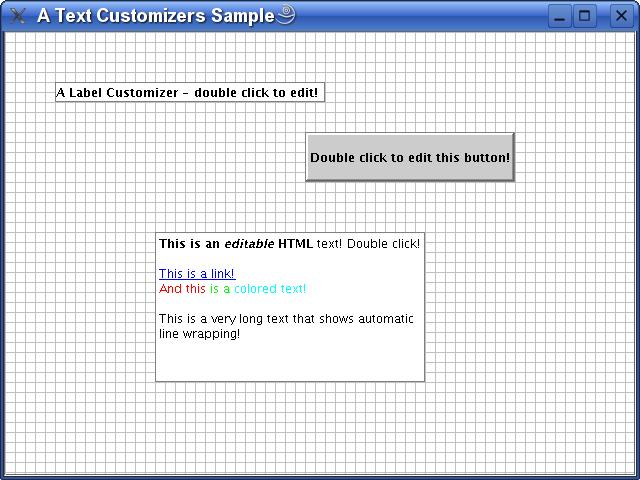
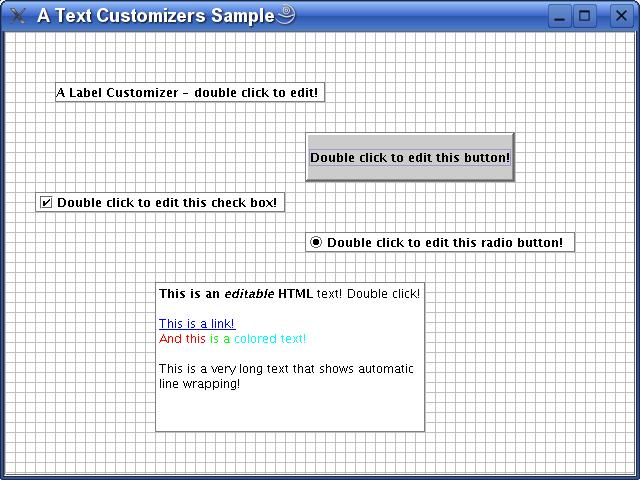
JCheckBox and JRadioButton added to the TextCustomizersSample

diff --git a/lib/docs/tutorial/swing/customizer/index.html b/lib/docs/tutorial/swing/customizer/index.html
@@ -65,6 +65,11 @@
         </ul>
 
         To move and resize the JCustomizer with the mouse you have to add it to a <a href="../../../api/org/softsmithy/lib/swing/JCustomizerPane.html">JCustomizerPane</a>.<br/>
+        
+        Double-clicking on a JCustomizer will fire an  
+        <a href="http://java.sun.com/j2se/1.4.2/docs/api/java/awt/event/ActionEvent.html">ActionEvent</a>.
+        You can register an <a href="http://java.sun.com/j2se/1.4.2/docs/api/java/awt/event/ActionListener.html">ActionListener</a> to get notified about these events. <br/>
+        
         <br/>
         Here's a picture of an application that uses a single JCustomizer added to a JCustomizerPane:
   
@@ -102,7 +107,9 @@
             </textarea>
         </pre></blockquote>
         <h2><a name="text">Text Customizers</a></h2>
-        <a href="../../../api/org/softsmithy/lib/swing/customizer/AbstractTextCustomizer.html">AbstractTextCustomizer</a> 
+        <a href="../../../api/org/softsmithy/lib/swing/customizer/AbstractTextCustomizer.html">AbstractTextCustomizer</a>
+        is a base class to write customizer for components, which can display 
+        texts, with inline-editing support.
         <a href="../../../api/org/softsmithy/lib/swing/JLabelCustomizer.html">JLabelCustomizer</a> 
         <a href="../../../api/org/softsmithy/lib/swing/JButtonCustomizer.html">JButtonCustomizer</a> 
         <a href="../../../api/org/softsmithy/lib/swing/JHtmlCustomizer.html">JHtmlCustomizer</a> 
@@ -127,7 +134,7 @@
         that creates and configures the JCustomizer and the JCustomizerPane.
         <blockquote><pre>
             <textarea name="code" class="java" cols="60" rows="10">
-                // create a CustomizerLayout
+        // create a CustomizerLayout
         InfiniteTableLayout itl = new InfiniteTableLayout(customizerPane);
         // set the layout
         customizerPane.setCustomizerLayout(itl);
@@ -135,10 +142,22 @@
         JLabelCustomizer labelCustomizer = new JLabelCustomizer("A Label Customizer - double click to edit!");
         // add it to the JCustomizerPane
         customizerPane.addCustomizer(labelCustomizer, new AbsoluteTableConstraints(50, 50,  270, 20, labelCustomizer, itl));
-        // create a JButtonCustomizer, which supports inline editing of a text
+        // create a JButtonCustomizer to customize a button using the String constructor.
         JButtonCustomizer buttonCustomizer = new JButtonCustomizer("Double click to edit this button!");
         // add it to the JCustomizerPane
         customizerPane.addCustomizer(buttonCustomizer, new AbsoluteTableConstraints(300, 100,  210, 50, buttonCustomizer, itl));
+        // create a JButtonCustomizer to customize a JCheckBox
+        JButtonCustomizer checkBoxCustomizer = new JButtonCustomizer(new JCheckBox("Double click to edit this check box!", true));
+        // set the background color to white
+        checkBoxCustomizer.setBackground(Color.WHITE);
+        // add it to the JCustomizerPane
+        customizerPane.addCustomizer(checkBoxCustomizer, new AbsoluteTableConstraints(30, 160,  250, 20, checkBoxCustomizer, itl));
+        // create a JButtonCustomizer to customize a JRadioButton
+        JButtonCustomizer radioButtonCustomizer = new JButtonCustomizer(new JRadioButton("Double click to edit this radio button!", true));
+        // set the background color to white
+        radioButtonCustomizer.setBackground(Color.WHITE);
+        // add it to the JCustomizerPane
+        customizerPane.addCustomizer(radioButtonCustomizer, new AbsoluteTableConstraints(300, 200,  270, 20, radioButtonCustomizer, itl));
         // create a JHtmlCustomizer, which supports inline editing of a text
         JHtmlCustomizer htmlCustomizer = new JHtmlCustomizer();
         // set some HTML text
@@ -149,7 +168,7 @@
                 "<font color=\"#00FFFF\">colored text!</font><br><br>" +
                 "This is a very long text that shows automatic line wrapping!");
         // add it to the JCustomizerPane
-        customizerPane.addCustomizer(htmlCustomizer, new AbsoluteTableConstraints(150, 200,  270, 150, htmlCustomizer, itl));
+        customizerPane.addCustomizer(htmlCustomizer, new AbsoluteTableConstraints(150, 250,  270, 150, htmlCustomizer, itl));
             </textarea>
         </pre></blockquote>
         <h2><a name="icon">Icon Customizers</a></h2>

diff --git a/lib/docs/samples/src/samples/swing/customizer/TextCustomizersSample.java b/lib/docs/samples/src/samples/swing/customizer/TextCustomizersSample.java
@@ -20,6 +20,9 @@
 
 package samples.swing.customizer;
 
+import java.awt.Color;
+import javax.swing.JCheckBox;
+import javax.swing.JRadioButton;
 import org.softsmithy.lib.awt.layout.AbsoluteTableConstraints;
 import org.softsmithy.lib.awt.layout.InfiniteTableLayout;
 import org.softsmithy.lib.swing.JButtonCustomizer;
@@ -43,10 +46,22 @@ public class TextCustomizersSample extends javax.swing.JFrame {
         JLabelCustomizer labelCustomizer = new JLabelCustomizer("A Label Customizer - double click to edit!");
         // add it to the JCustomizerPane
         customizerPane.addCustomizer(labelCustomizer, new AbsoluteTableConstraints(50, 50,  270, 20, labelCustomizer, itl));
-        // create a JButtonCustomizer, which supports inline editing of a text
+        // create a JButtonCustomizer to customize a button using the String constructor.
         JButtonCustomizer buttonCustomizer = new JButtonCustomizer("Double click to edit this button!");
         // add it to the JCustomizerPane
         customizerPane.addCustomizer(buttonCustomizer, new AbsoluteTableConstraints(300, 100,  210, 50, buttonCustomizer, itl));
+        // create a JButtonCustomizer to customize a JCheckBox
+        JButtonCustomizer checkBoxCustomizer = new JButtonCustomizer(new JCheckBox("Double click to edit this check box!", true));
+        // set the background color to white
+        checkBoxCustomizer.setBackground(Color.WHITE);
+        // add it to the JCustomizerPane
+        customizerPane.addCustomizer(checkBoxCustomizer, new AbsoluteTableConstraints(30, 160,  250, 20, checkBoxCustomizer, itl));
+        // create a JButtonCustomizer to customize a JRadioButton
+        JButtonCustomizer radioButtonCustomizer = new JButtonCustomizer(new JRadioButton("Double click to edit this radio button!", true));
+        // set the background color to white
+        radioButtonCustomizer.setBackground(Color.WHITE);
+        // add it to the JCustomizerPane
+        customizerPane.addCustomizer(radioButtonCustomizer, new AbsoluteTableConstraints(300, 200,  270, 20, radioButtonCustomizer, itl));
         // create a JHtmlCustomizer, which supports inline editing of a text
         JHtmlCustomizer htmlCustomizer = new JHtmlCustomizer();
         // set some HTML text
@@ -57,7 +72,7 @@ public class TextCustomizersSample extends javax.swing.JFrame {
                 "<font color=\"#00FFFF\">colored text!</font><br><br>" +
                 "This is a very long text that shows automatic line wrapping!");
         // add it to the JCustomizerPane
-        customizerPane.addCustomizer(htmlCustomizer, new AbsoluteTableConstraints(150, 200,  270, 150, htmlCustomizer, itl));
+        customizerPane.addCustomizer(htmlCustomizer, new AbsoluteTableConstraints(150, 250,  270, 150, htmlCustomizer, itl));
         setSize(640, 480);
     }
     

diff --git a/lib/src/org/softsmithy/lib/swing/JButtonCustomizer.java b/lib/src/org/softsmithy/lib/swing/JButtonCustomizer.java
@@ -1,162 +1,87 @@
 /*
-
  *                  Sun Public License Notice
-
  *
-
  * The contents of this file are subject to the Sun Public License
-
  * Version 1.0 (the "License"); you may not use this file except in
-
  * compliance with the License. A copy of the License is available at
-
  * http://www.sun.com/
-
  *
-
  * The Original Code is SoftSmithy Utility Library. The Initial Developer of the
-
  * Original Code is Florian Brunner (Sourceforge.net user: puce). All Rights Reserved.
-
  *
-
  * Contributor(s): .
-
  */
-
-
 
 /*
-
  * JLabelCustomizer.java
-
  *
-
  * Created on 5. September 2002, 17:11
-
  */
-
-
 
 package org.softsmithy.lib.swing;
 
-
-
 import javax.swing.*;
-
 import org.softsmithy.lib.swing.customizer.*;
 
-
-
 /**
-
  *
-
  * @author  puce
-
  */
-
 public class JButtonCustomizer extends AbstractTextCustomizer {
-
   
-
   /** Creates a new instance of JLabelCustomizer */
-
   public JButtonCustomizer() {
-
     this("");
-
   }
-
   
-
   public JButtonCustomizer(AbstractButton button){
-
     super(button);
-
   }
-
   
-
   public JButtonCustomizer(String text){
-
     this(new JButton(text));
     getButton().setBorder(BorderFactory.createRaisedBevelBorder());
   }
 
   
-
   public String getText() {
-
     AbstractButton button = getButton();
-
     return button != null ? button.getText() : "";
-
   }
-
   
-
   public void setText(String text) {
-
     AbstractButton button = getButton();
-
     if (button != null){
-
       button.setText(text);
-
     }
-
   }
-
   
-
   /** Setter for property fComponent.
-
    * @param fComponent New value of property fComponent.
-
    *
-
    */
-
   public void setComponent(JComponent component) {
-
     if (! (component instanceof AbstractButton)){
-
       throw new IllegalArgumentException("comp must be an AbstractButton");
-
     }
-
     super.setComponent(component);
-
   }
-
     protected void setHorizontalAlignmentOnly(HorizontalAlignment alignment) {
-
     AbstractButton button = getButton();
-
     if (button != null){
-
       button.setHorizontalAlignment(alignment.getSwingConstant());
-
     }
-
   }
 
-  
-  public HorizontalAlignment getHorizontalAlignment() {
-
+   public HorizontalAlignment getHorizontalAlignment() {
     AbstractButton button = getButton();
-
     return button != null ? HorizontalAlignment.getHorizontalAlignment(button.getHorizontalAlignment()) : HorizontalAlignment.getHorizontalAlignment(new JButton().getHorizontalAlignment());
-
   }
-  
+ 
   // TODO replace with generic getComponent!?
   private AbstractButton getButton(){
       return (AbstractButton) getComponent();
   }
-
-  
 
 }
 
